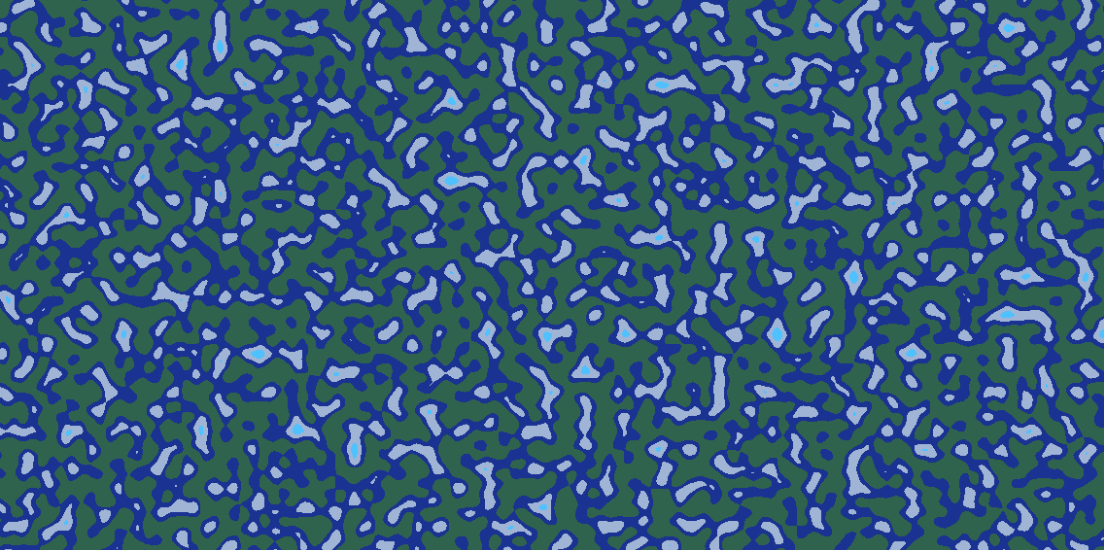
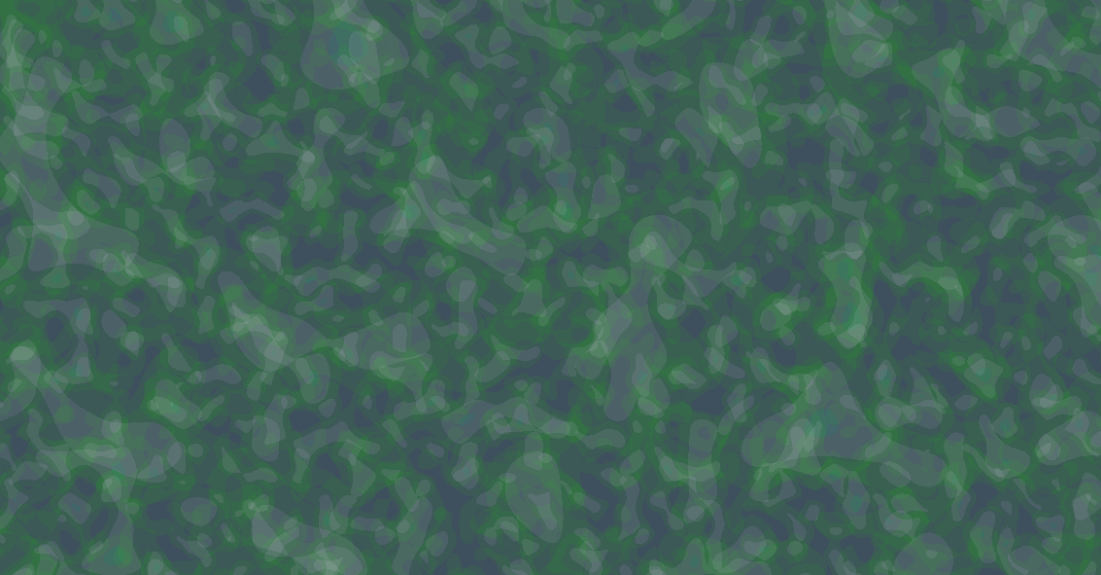
changes

diff --git a/src/app/simulations/perlin/SimuEnginePerlin.tsx b/src/app/simulations/perlin/SimuEnginePerlin.tsx
@@ -15,7 +15,7 @@ export class SimuEnginePerlin extends SimuEngine {
 
         this.pixelMatrix = null;
         this.time = 0.5;
-        this.scale = 0.05;
+        this.scale = 0.02;
 
         // Initialize permutation array
         this.perm = [...Array(512)].map(() => Math.floor(Math.random() * 256));
@@ -34,8 +34,9 @@ export class SimuEnginePerlin extends SimuEngine {
         this.init();   
 
         this.colors = [];
-        for (const color of DrawingUtils.getColors()) {
-            const colorObj = DrawingUtils.parseRGBA(color);
+        const offiColors = DrawingUtils.getColors();
+        for (let i = 0; i < offiColors.length; i ++) {
+            const colorObj = DrawingUtils.parseRGBA(offiColors[i]);
             if (!colorObj) continue;
             this.colors.push(colorObj);
         }
@@ -49,24 +50,37 @@ export class SimuEnginePerlin extends SimuEngine {
 
     do(): void {
         if (!this.ctx || !this.pixelMatrix) return;
-
-        const colors = DrawingUtils.getColors();
         
         DrawingUtils.clearCanvas(this.ctx, this.canvas);
 
+        const layerNbr = 5;
         for (let x = 0; x < this.canvas.width; x++) {
             for (let y = 0; y < this.canvas.height; y++) {
 
-                const noiseValue = this.perlin2(x * this.scale, y * this.scale);
-
-                let colorValue = Math.floor((noiseValue + 1) * (colors.length-1));
-                if (colorValue > colors.length-1) colorValue = colors.length-1;
-
-                const colorRGB = this.colors[colorValue];
-
-                if (colorRGB) {
-                    this.setPixel(x, y, new Pixel(colorRGB.red, colorRGB.green, colorRGB.blue, 255));
+                let avgRed = 0;
+                let avgGreen = 0;
+                let avgBlue = 0;
+                let avgAlpha = 0;
+                for (let i = 0; i < layerNbr; i++) {
+                    let currScale = i*this.scale;
+                    const noiseValue = this.perlin2(x * currScale, y * currScale);
+                    let colorValue = Math.floor((noiseValue + 1) * (this.colors.length-1));
+                    if (colorValue > this.colors.length-1) colorValue = this.colors.length-1;
+                    const colorRGB = this.colors[colorValue];
+                    avgRed += colorRGB.red;
+                    avgGreen += colorRGB.green;
+                    avgBlue += colorRGB.blue;
+                    avgAlpha += 255 - i*50;
                 }
+
+                avgRed /= layerNbr;
+                avgGreen /= layerNbr;
+                avgBlue /= layerNbr;
+                avgAlpha /= layerNbr;
+
+                const averagePx: Pixel = new Pixel(avgRed, avgGreen, avgBlue, avgAlpha);
+                this.setPixel(x, y, averagePx);
+
             }
         }
 

diff --git a/src/app/simulations/tsp/SimuEngineTSP.tsx b/src/app/simulations/tsp/SimuEngineTSP.tsx
@@ -171,10 +171,6 @@ export class SimuEngineTSP extends SimuEngine {
         for (const city of this.cities) {
             this.renderCity(city);
         }
-
-
-        // Draw the path on top of the canvas
-        // this.renderPath();
     }
 
     private doMSTStep(): void {
@@ -278,11 +274,6 @@ export class SimuEngineTSP extends SimuEngine {
         this.ctx.fill();
         this.ctx.closePath();
 
-        // this.ctx.fillStyle = 'white';
-        // this.ctx.font = 0.012*this.diagLength+'px Arial bold';
-        // this.ctx.textAlign = 'center';
-        // this.ctx.fillText(city.name +": "+this.finalTour.indexOf(city), x + 0.01*this.diagLength, y + 0.02*this.diagLength);
-
         let pushX: number = 0;
         let pushY: number = 0;
 
@@ -344,29 +335,6 @@ export class SimuEngineTSP extends SimuEngine {
         this.ctx.lineTo(road.cityB.x, road.cityB.y);
         this.ctx.stroke();
         this.ctx.closePath();
-    }
-
-    private renderPath(): void {
-        if (!this.ctx) return;
-
-        // Draw the path on top of the canvas
-        const pathText = this.getPathString();
-        this.ctx.fillStyle = 'white';
-        this.ctx.font = 0.016*this.diagLength+'px Arial bold';
-        this.ctx.textAlign = 'center';
-
-        this.ctx.fillText(pathText, this.canvas.width / 2, 0.03*this.diagLength);
-    }
-
-    private getPathString(): string {
-        let path = "Path: ";
-        for (let i = 0; i < this.finalTour.length; i++) {
-            path += this.finalTour[i].name;
-            if (i < this.finalTour.length - 1) {
-                path += " - ";
-            }
-        }
-        return path;
     }
 
     stop(): void {

diff --git a/src/app/core/contact/Show.tsx b/src/app/core/contact/Show.tsx
@@ -103,15 +103,10 @@ function Show() {
 					<div className='ShowSlideText'>
 						<span className="title">COMMING NEXT ?</span>
 						<ul>
-							<li>Add simulation toolbars to enable user interactions.</li>
-							<ul>
-								<li>Sort: allow user to choose quicksort or bubblesort.</li>
-								<li>Paths: allow user to draw walls.</li>
-								<li>TSP: allow user to ajust the number of cities on the tour.</li>
-								<li>Fractal: allow user to zoom in the Sierpinsky triangle.</li>
-								<li>Perlin noise: allow user to change the smoothness of the noise</li>
-								<li>DLA: allow user to modify the number of random walkers.</li>
-							</ul>
+							<li>Ant colony optimization visualization.</li>
+							<li>Fluid simulation.</li>
+							<li>Simple neural network apprentissage visualization.</li>
+							<li>DNA Driven life evolution simulation.</li>
 						</ul>
 					</div>
 					<Carousel.Caption className='ShowSlideCaption'>

diff --git a/src/app/simulations/perlin/ToolbarPerlin.tsx b/src/app/simulations/perlin/ToolbarPerlin.tsx
@@ -10,13 +10,13 @@ export class ToolbarPerlin extends Toolbar {
 
     constructor(simuEngine: SimuEngine) {
         super(simuEngine)
-        this.userCoef = 0.05;
+        this.userCoef = 0.02;
     }
 
     getButtons(): JSX.Element {
         return (
             <ButtonGroup style={{width:'100%', justifyContent:'space-between'}}>
-                <Slider style={{margin:'0.5rem'}} marks={{0.00 : <div style={{color:'antiquewhite'}}>SMOOTH</div>}} min={-0.5} max={0.5} step={0.001} defaultValue={this.userCoef} onChange={(evt)=>{this.exportToEngine(evt)}}></Slider>
+                <Slider style={{margin:'0.5rem'}} marks={{0.00 : <div style={{color:'antiquewhite'}}>SMOOTH</div>}} min={0.0} max={0.5} step={0.0001} defaultValue={this.userCoef} onChange={(evt)=>{this.exportToEngine(evt)}}></Slider>
             </ButtonGroup>
         );
     }

diff --git a/src/app/simulations/dla/SimuEngineDLA.tsx b/src/app/simulations/dla/SimuEngineDLA.tsx
@@ -92,7 +92,7 @@ export class SimuEngineDLA extends SimuEngine {
             DrawingUtils.renderCircleOnValue(this.ctx, walker, walker.r, this.minRadius, this.maxRadius);
         }
 
-        if (this.tree.length >= 0.6*this.diagLength) {
+        if (this.tree.length >= 0.5*this.diagLength) {
             DrawingUtils.clearCanvas(this.ctx, this.canvas);
             for (const walker of this.tree) {
                 DrawingUtils.renderCircleOnValue(this.ctx, walker, walker.r, this.minRadius, this.maxRadius);

diff --git a/src/app/simulations/sort/ToolbarSort.tsx b/src/app/simulations/sort/ToolbarSort.tsx
@@ -1,9 +1,11 @@
 import { ButtonGroup, Dropdown } from "react-bootstrap";
 import { Toolbar } from "../Toolbar";
+import { SimuEngine } from "../SimuEngine";
 
 export class ToolbarSort extends Toolbar {
 
     getButtons(): JSX.Element {
+
         return (
             <ButtonGroup>
                 <Dropdown>
